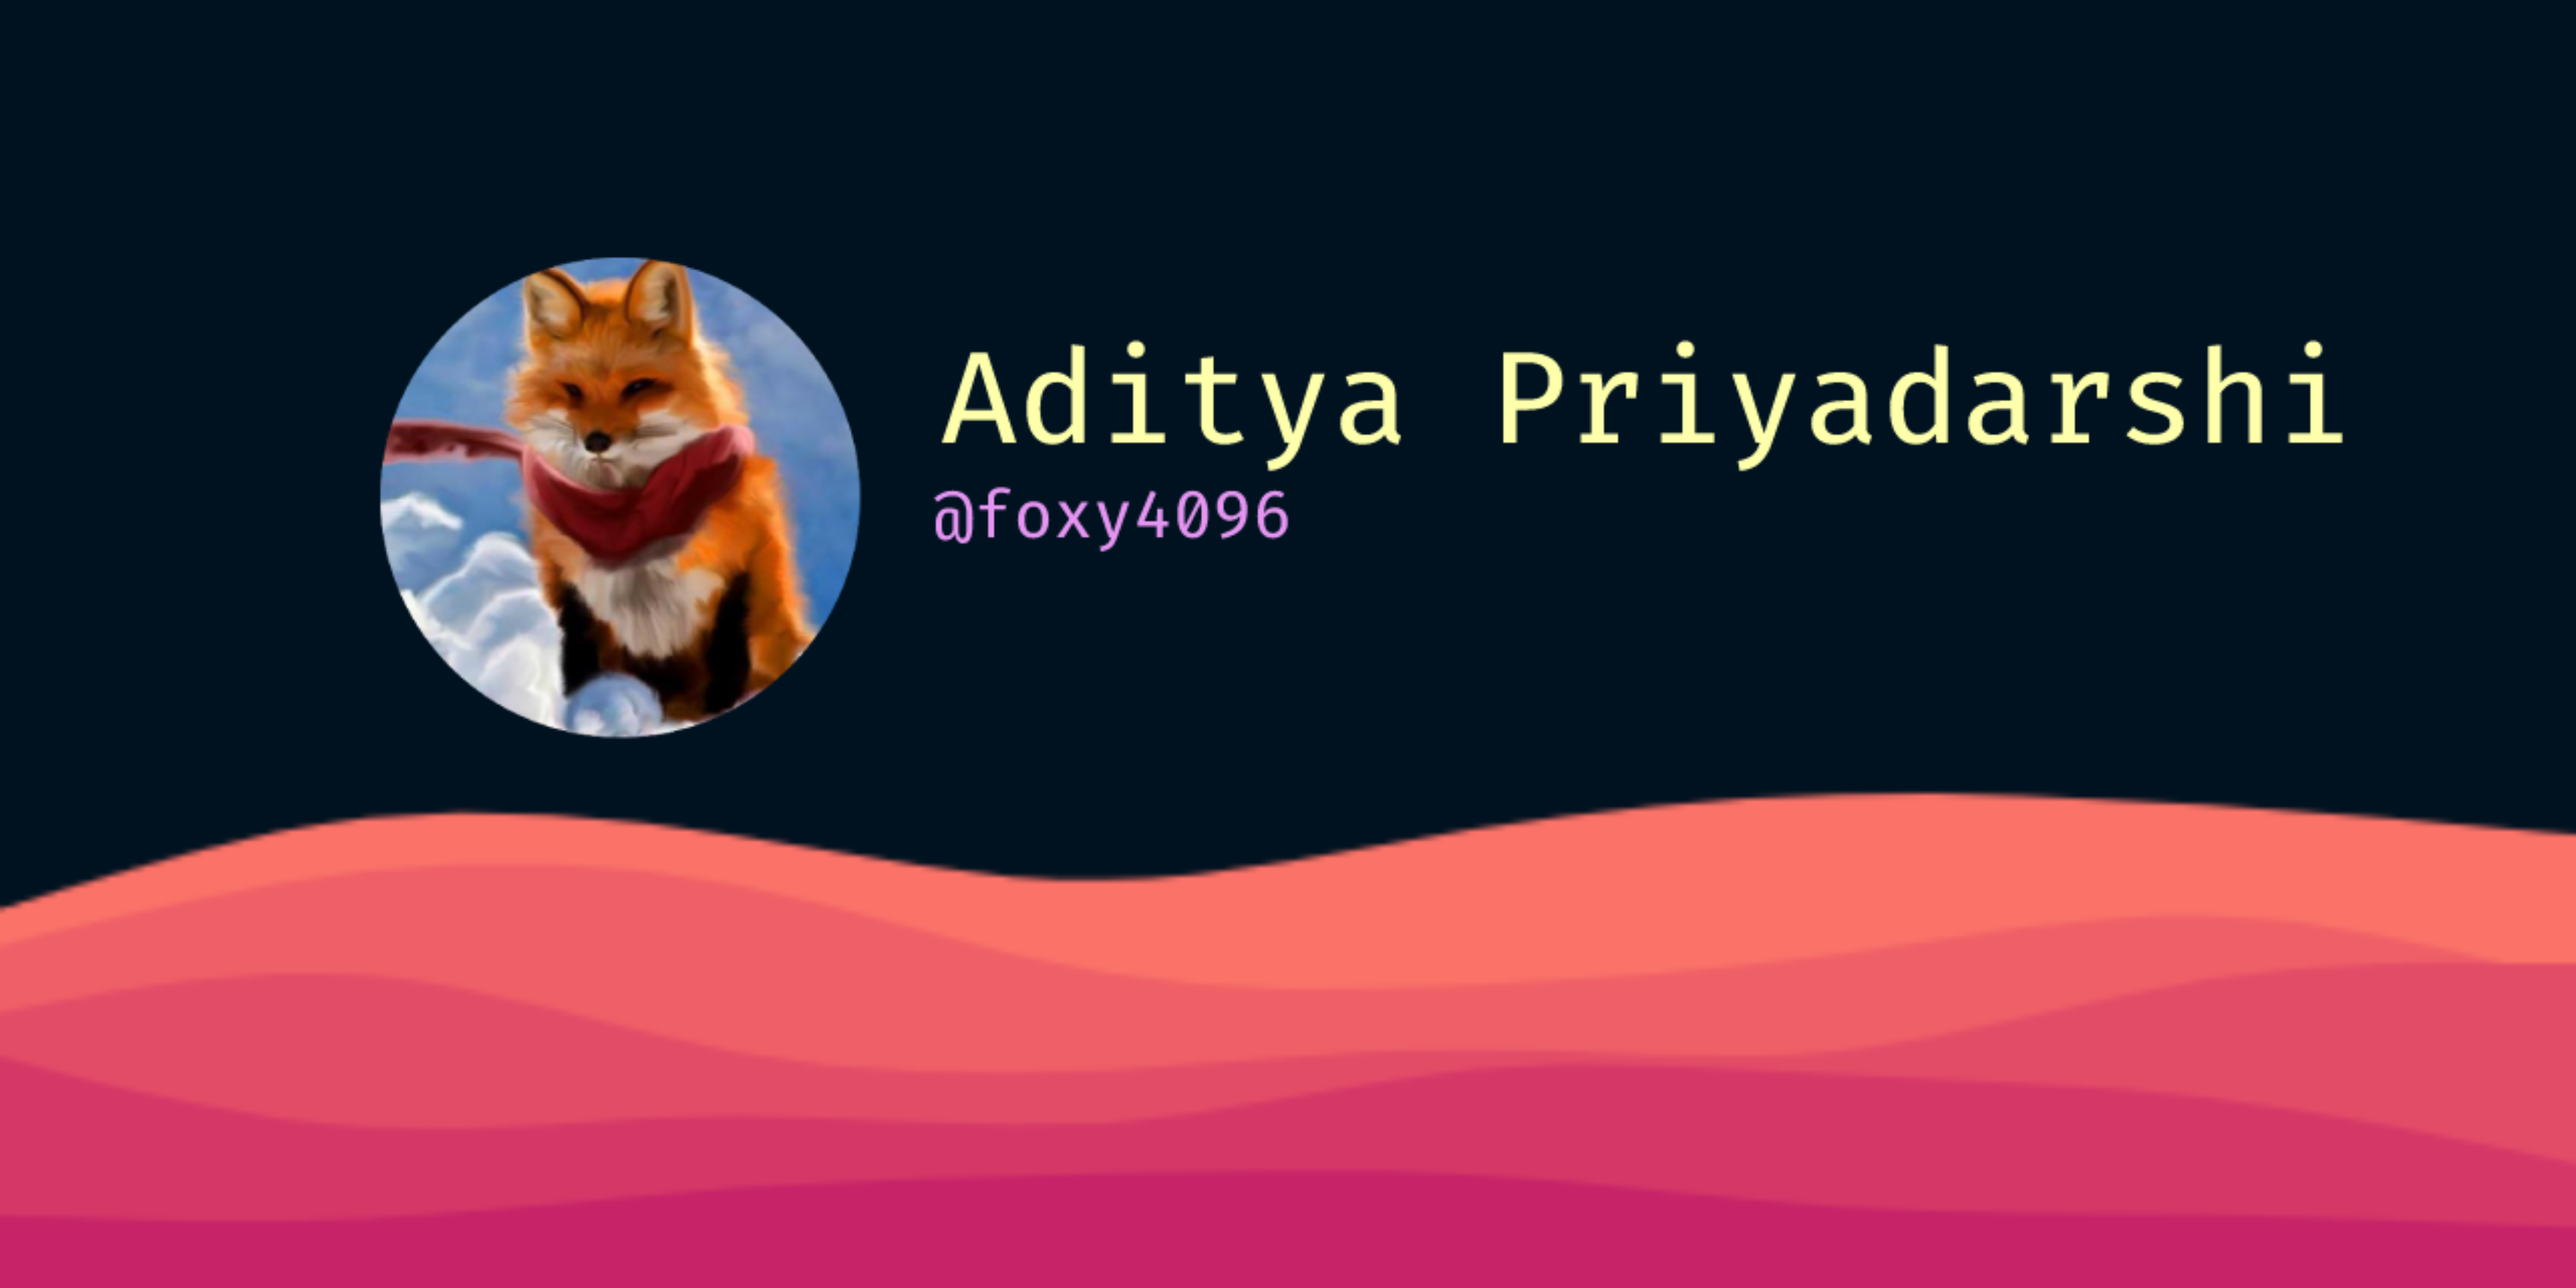
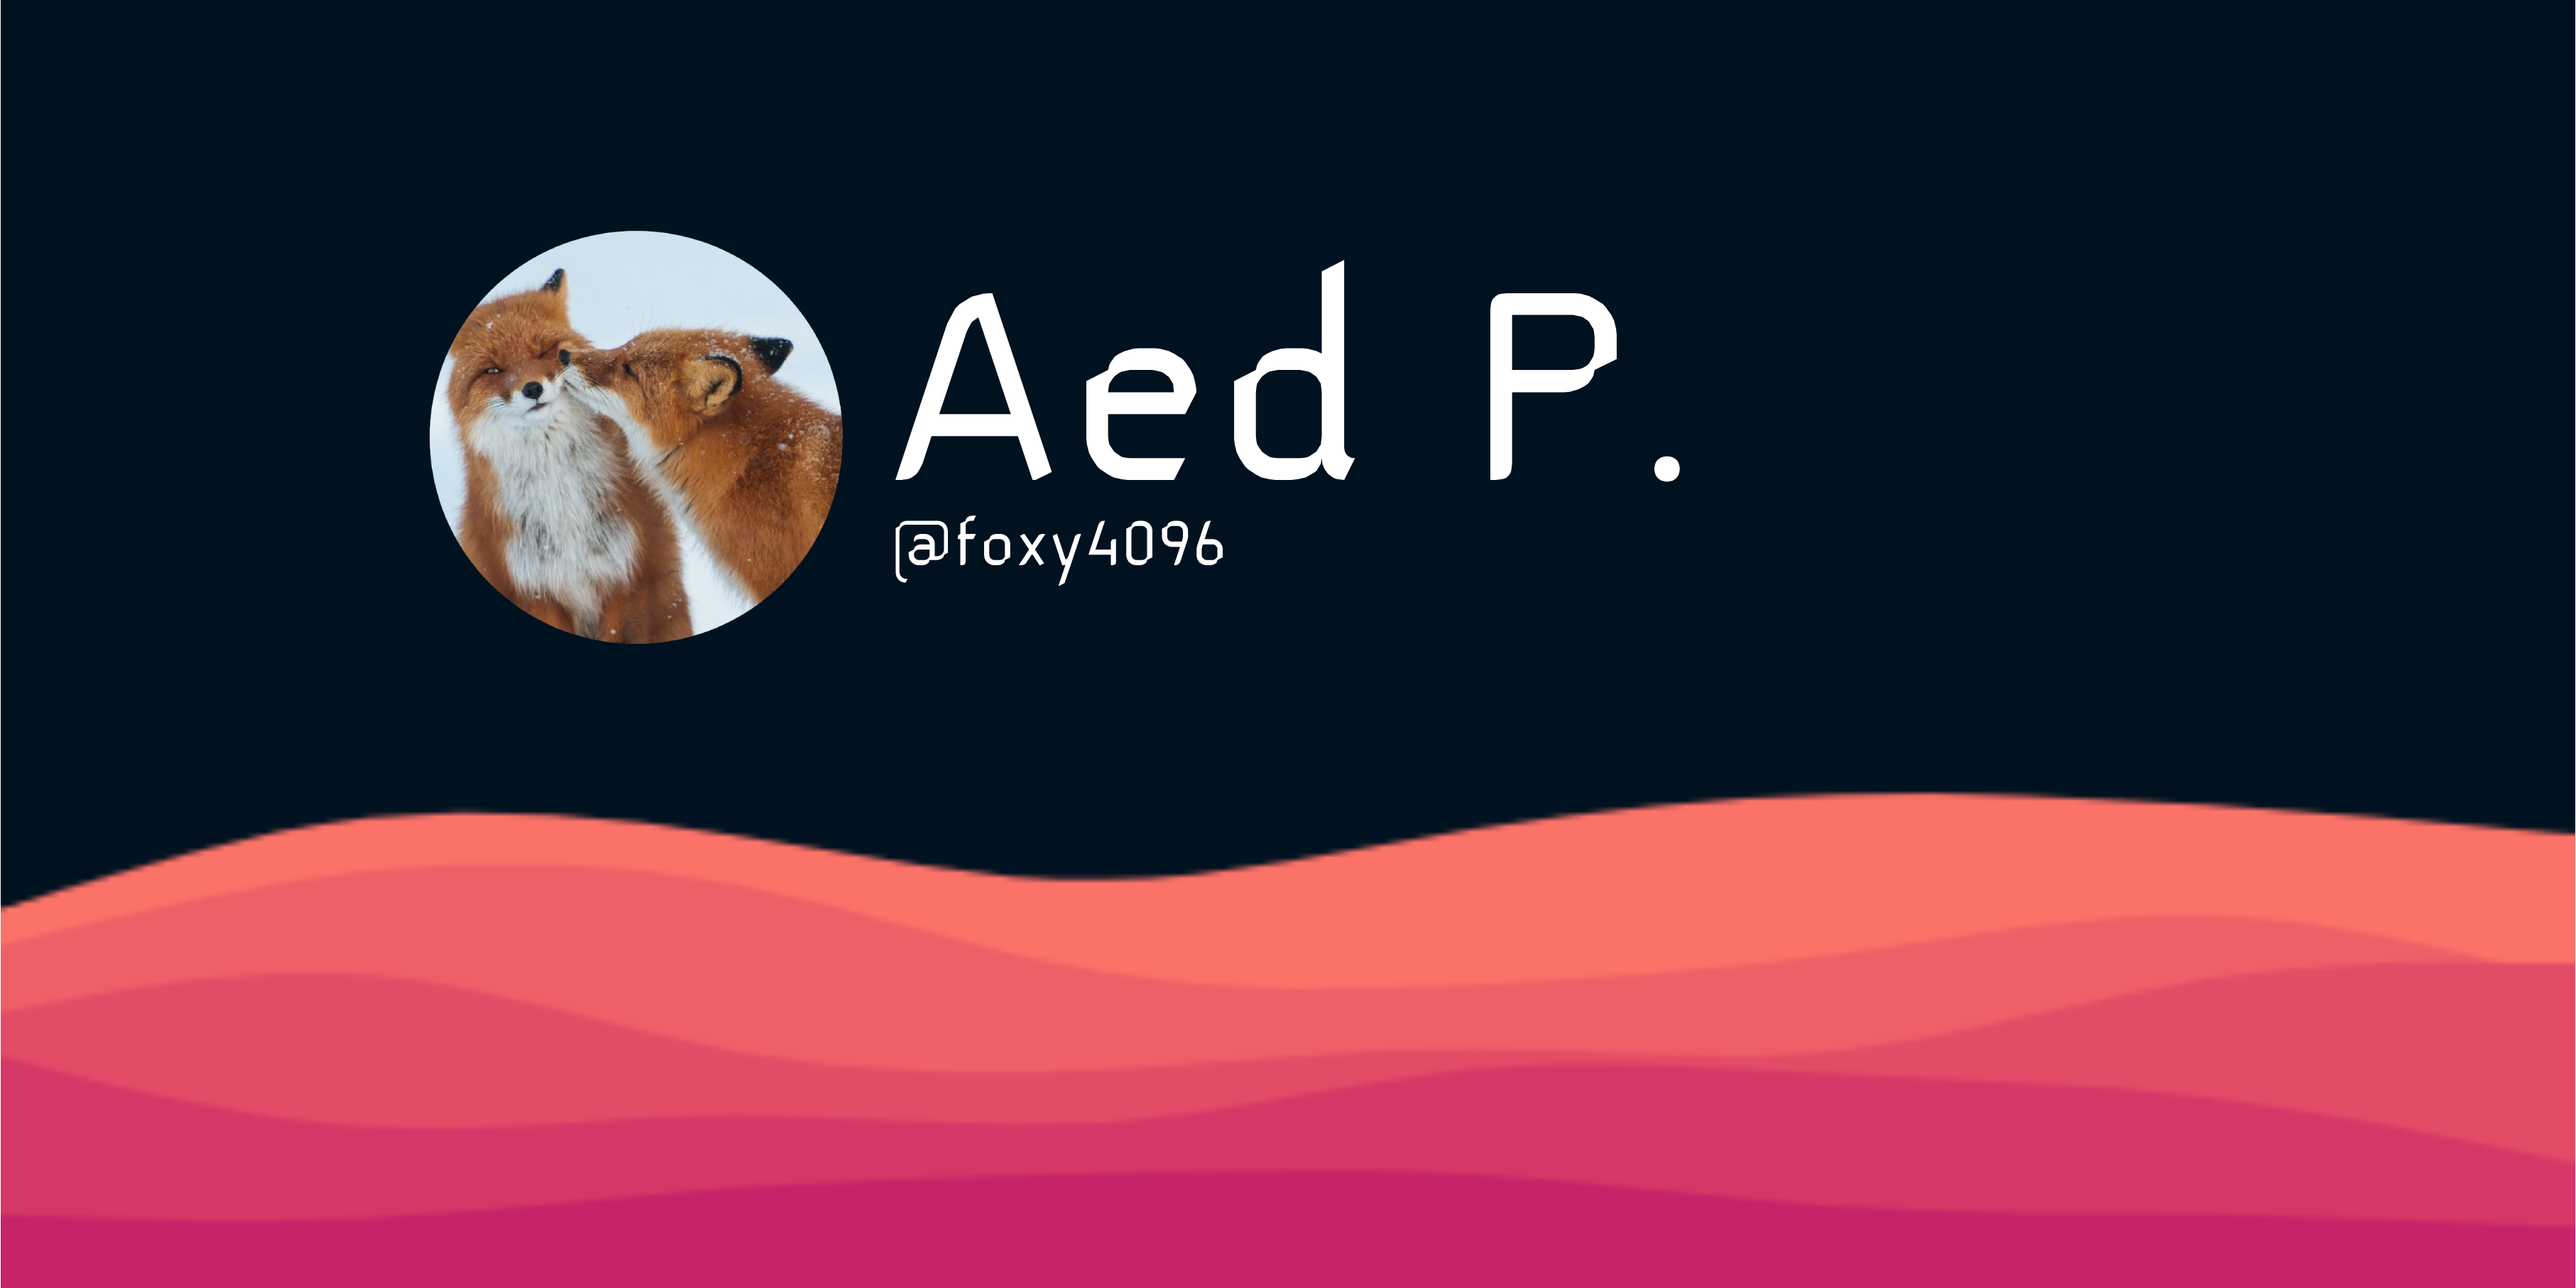
Changed some images

Changed region(s): [[0.1246, 0.1544, 0.9033, 0.5865]]

diff --git a/archive/index.html b/archive/index.html
@@ -4,7 +4,7 @@
 <head>
     <meta charset="utf-8">
     <meta name="viewport" content="width=device-width, initial-scale=1">
-    <title>Aditya Priyadarshi</title>
+    <title>Aed P.</title>
     <link rel="shortcut icon" href="images/icon.png" type="image/x-png">
     <link rel="stylesheet" href="/style.css">
     <script src="https://s.pageclip.co/v1/pageclip.js" charset="utf-8"></script>
@@ -12,26 +12,26 @@
     <link rel="stylesheet" href="/custom.css">
 
     <!-- Default -->
-    <meta name="title" content="Aditya Priyadarshi (foxy4096)">
+    <meta name="title" content="Aed P. (foxy4096)">
     <meta name="description" content="A Dumb Web Developer Who Loves Django">
     <meta name="keywords" content="Developer, Programmer">
     <meta name="robots" content="index, follow">
     <meta http-equiv="Content-Type" content="text/html; charset=utf-8">
     <meta name="language" content="English">
-    <meta name="author" content="Aditya Priyadarshi [foxy4096]">
+    <meta name="author" content="Aed P. [foxy4096]">
 
     <!-- OG/Facebook -->
-    <meta property="og:title" content="Aditya Priyadarshi (foxy4096)">
+    <meta property="og:title" content="Aed P. (foxy4096)">
     <meta property="og:description" content="A Dumb Web Developer Who Loves Django">
     <meta property="og:image" content="https://github.com/foxy4096.png">
     <meta property="og:url" content="https://foxy4096.is-a.dev">
-    <meta property="og:site_name" content="Aditya Priyadarshi">
+    <meta property="og:site_name" content="Aed P.">
     <meta property="og:type" content="website">
 
     <!-- Twitter -->
     <meta name="twitter:card" content="summary">
     <meta name="twitter:site" content="@foxy4096">
-    <meta name="twitter:title" content="Aditya Priyadarshi (foxy4096)">
+    <meta name="twitter:title" content="Aed P. (foxy4096)">
     <meta name="twitter:description" content="A Dumb Web Developer Who Loves Django">
     <meta name="twitter:image" content="https://github.com/foxy4096.png">
 </head>
@@ -47,7 +47,7 @@
                 </div>
                 <div class="card-content badge-danger">
                     <div class="content">
-                        <h1 class="title has-text-centered is-1 has-text-weight-bold">Aditya Priyadarshi</h1>
+                        <h1 class="title has-text-centered is-1 has-text-weight-bold">Aed P.</h1>
                         <p class="quote has-text-centered"><q>A Dumb Web Developer Who Loves Django</q></p>
                     </div>
                     <hr>

diff --git a/index.html b/index.html
@@ -4,8 +4,8 @@
 <head>
 
     <!-- META OG TAGS STARTS -->
-    <meta property="og:site_name" content="Home / Aditya Priyadarshi (@foxy4096)" />
-    <meta property=“og:title” content="Aditya Priyadarshi (@foxy4096)" />
+    <meta property="og:site_name" content="Home / Aed P. (@foxy4096)" />
+    <meta property=“og:title” content="Aed P. (@foxy4096)" />
     <meta property="og:description" content="A Dumb Web Developer Who Loves Django." />
     <meta property="og:url"
         content="/images/OGImage.png" />
@@ -33,7 +33,7 @@
 
     <script src="https://unpkg.com/alpinejs@3.10.5/dist/cdn.min.js"></script>
     <link rel="shortcut icon" href="images/profile.png" type="image/x-icon">
-    <title>Home • Aditya Priyadarshi</title>
+    <title>Home • Aed P.</title>
 </head>
 
 <body hx-boost="true" id="body">
@@ -51,7 +51,7 @@
                         <img src="https://github.com/foxy4096.png" alt="" class="profile-img" width="90"
                             alt="Profile Picture">
                     </figure>
-                    <h1>Hello! I am <span class="jolly" title="Aditya Priyadarshi">Aditya</span>
+                    <h1>Hello! I am <span class="jolly" title="Aditya Priyadarshi">Aed P.</span>
                     </h1>
                 </div>
                 <small>aka <a href="https://github.com/foxy4096" target="_blank">@foxy4096</a> 🦊</small>

diff --git a/contact/index.html b/contact/index.html
@@ -4,8 +4,8 @@
 <head>
 
     <!-- META OG TAGS STARTS -->
-    <meta property="og:site_name" content="Contact / Aditya Priyadarshi (@foxy4096)" />
-    <meta property=“og:title” content="Aditya Priyadarshi (@foxy4096)" />
+    <meta property="og:site_name" content="Contact / Aed P. (@foxy4096)" />
+    <meta property=“og:title” content="Aed P. (@foxy4096)" />
     <meta property="og:description" content="A Dumb Web Developer Who Loves Django." />
     <meta property="og:url"
         content="/images/OGImage.png" />
@@ -32,7 +32,7 @@
     <script src="https://unpkg.com/htmx.org@1.8.4"></script>
 
     <link rel="shortcut icon" href="../images/profile.png" type="image/x-icon">
-    <title>Contact • Aditya Priyadarshi</title>
+    <title>Contact • Aed P.</title>
 </head>
 
 <body hx-boost="true" id="body">

diff --git a/blog/index.html b/blog/index.html
@@ -5,8 +5,8 @@
 
     
     <!-- META OG TAGS STARTS -->
-    <meta property="og:site_name" content="Blog / Aditya Priyadarshi (@foxy4096)" />
-    <meta property=“og:title” content="Aditya Priyadarshi (@foxy4096)" />
+    <meta property="og:site_name" content="Blog / Aed P. (@foxy4096)" />
+    <meta property=“og:title” content="Aed P. (@foxy4096)" />
     <meta property="og:description" content="A Dumb Web Developer Who Loves Django." />
     <meta property="og:url"
         content="/images/OGImage.png" />
@@ -33,7 +33,7 @@
     <script src="https://unpkg.com/htmx.org@1.8.4"></script>
 
     <link rel="shortcut icon" href="images/profile.png" type="image/x-icon">
-    <title>Blog • Aditya Priyadarshi</title>
+    <title>Blog • Aed P.</title>
 </head>
 
 <body hx-boost="true" id="body">
